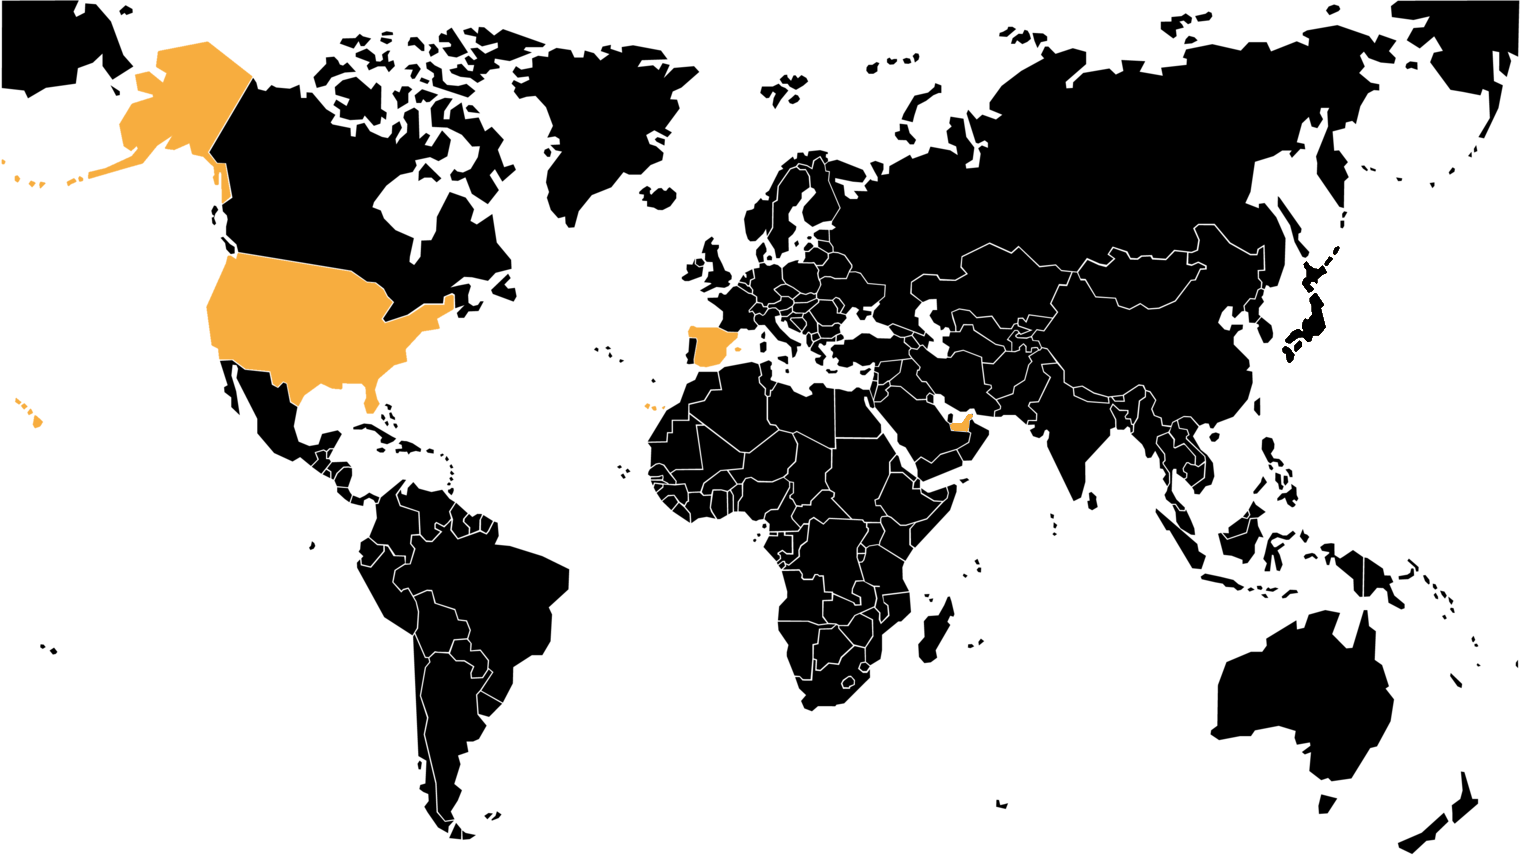
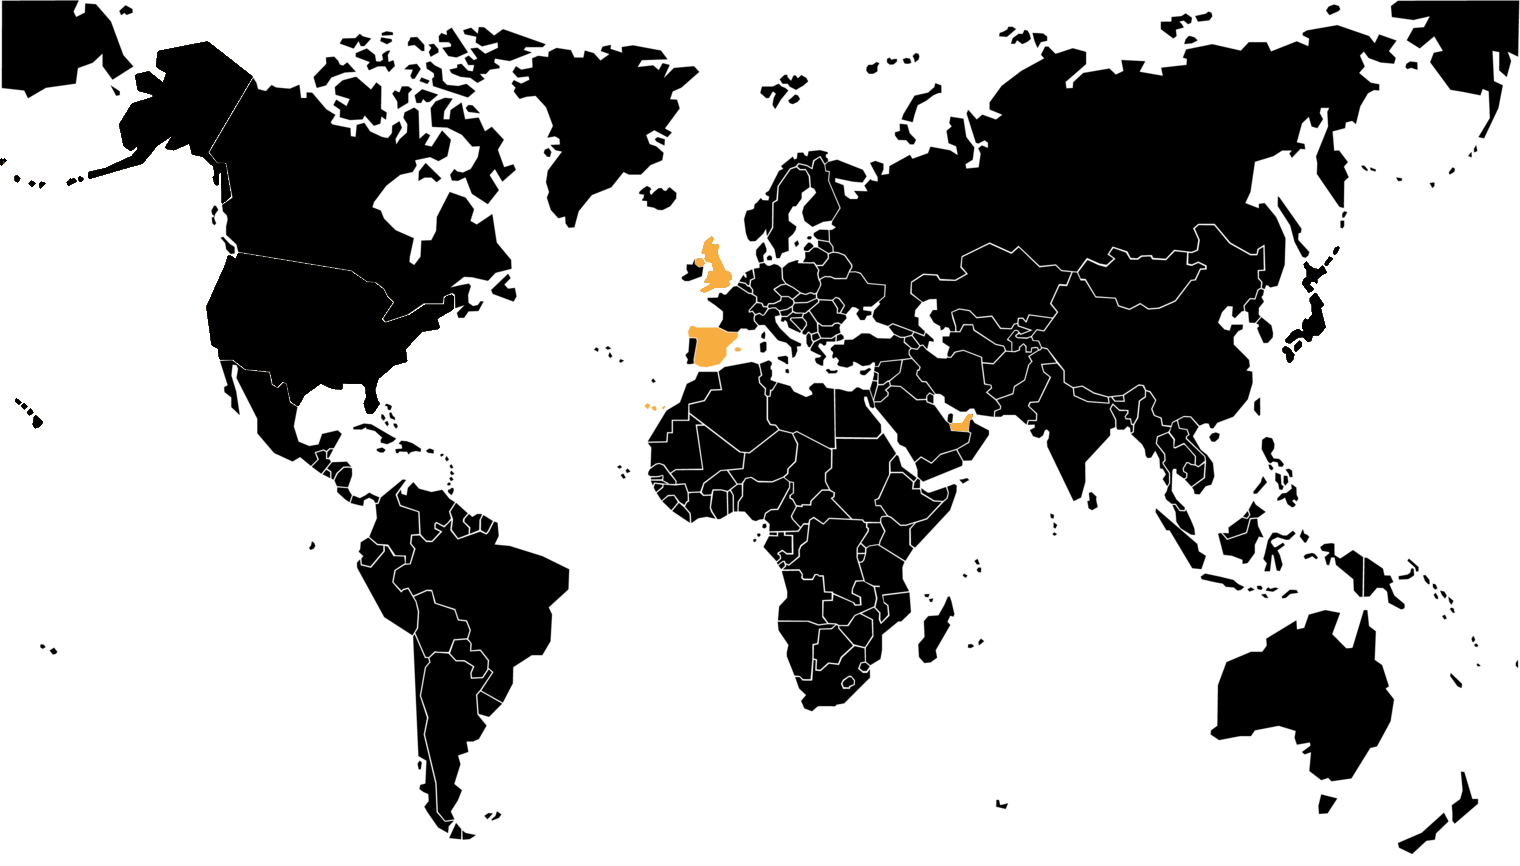
Finish principal page and start secondary

diff --git a/index.html b/index.html
@@ -27,18 +27,18 @@
     		<div id="experiences">
     			<button id="expbtn"><ion-icon name="caret-down-outline"></ion-icon>Experiences</button>
     			<div id="exp-content">
-      				<a href="">Experience 1</a>
-      				<a href="">Experience 2</a>
-      				<a href="">Experience 3</a>
+      				<a href="./Godai.html">Godai Menorca</a>
+      				<a href="">Nusr-et Dubai</a>
+      				<a href="">Burger & Beyond London</a>
     			</div>
   			</div>
   		</div>
 	</nav>
 
 	<div>
-    	<img id="map" src="./images/Map.png" usemap="#worldmap">
+    	<img class="header-images" src="./images/Map.png" usemap="#worldmap">
     	<map name="worldmap">
-  			<area shape="rect" coords="250,290,390,370" alt="USA" href="B&B.html">
+  			<area shape="rect" coords="706,255,730,290" alt="London" href="B&B.html">
   			<area shape="rect" coords="705,330,725,365" alt="Spain" href="Godai.html">
   			<area shape="rect" coords="955,420,975,430" alt="EAU" href="nusr-et.html">
 		</map>
@@ -61,25 +61,25 @@
   				<img class="image-container" src="./images/Godai.png">
   			</div>
   			<div class="justified-text">
-  				<p>Lorem ipsum dolor sit amet consectetur adipisicing elit. Maxime mollitia,
-				molestiae quas vel sint commodi repudiandae consequuntur voluptatum laborum
-				numquam blanditiis harum quisquam eius sed odit fugiat iusto fuga praesentium
-				optio, eaque rerum! Provident similique accusantium nemo autem.</p>
+  				<p>Godai is an exclusive japaneese restaurant located in the 5 stars hotel
+					Suites del Lago, Menorca. It offers the very personal cuisine of the chef
+					Julián Mármol, who owns a Michelín star. His vocation is to assemble the
+					Menorca products with the techniques and procedures of the japanese cuisine</p>
   			</div>
   		</div>
   		<div class="exp-container">
   			<div>
   				<h2>NUSR-ET</h2>
-			</div>
-			<div>
+				</div>
+				<div>
 			  	<img class="image-container" src="./images/nurs-et.jpg">
 		  	</div>
 		  	<div class="justified-text">
-  				<p>Lorem ipsum dolor sit amet consectetur adipisicing elit. Maxime mollitia,
-				molestiae quas vel sint commodi repudiandae consequuntur voluptatum laborum
-				numquam blanditiis harum quisquam eius sed odit fugiat iusto fuga praesentium
-				optio, eaque rerum! Provident similique accusantium nemo autem.</p>
-			</div>
+  				<p>Nusr-et restaurants are worldwide known for its spectacular meat preparation,
+					its golden steaks and hamburgers. It has become very popular since lots of well
+					known celebrities have visited them and due to their partcular way of spreading
+					the salt.</p>
+				</div>
   		</div>
   		<div class="exp-container">
   			<div>
@@ -89,10 +89,10 @@
   				<img class="image-container" src="./images/Diverxo.jpg">
 			</div>
   			<div class="justified-text">
-  				<p>Lorem ipsum dolor sit amet consectetur adipisicing elit. Maxime mollitia,
-				molestiae quas vel sint commodi repudiandae consequuntur voluptatum laborum
-				numquam blanditiis harum quisquam eius sed odit fugiat iusto fuga praesentium
-				optio, eaque rerum! Provident similique accusantium nemo autem.</p>
+  				<p>Located in the holtel NH Eurobulding, it is the only three Michelín stars
+					restaurant in Madrid. It offers an fanciful, overflowing and so funny cuisine
+					with evoluting dishes throughout the experience and whose invetion is due to
+					David Muñoz.</p>
 			</div>
   		</div>
   		<div class="exp-container">
@@ -103,10 +103,10 @@
   				<img class="image-container" src="./images/hostaria.jpg">
 			</div>
   			<div class="justified-text">
-  				<p>Lorem ipsum dolor sit amet consectetur adipisicing elit. Maxime mollitia,
-				molestiae quas vel sint commodi repudiandae consequuntur voluptatum laborum
-				numquam blanditiis harum quisquam eius sed odit fugiat iusto fuga praesentium
-				optio, eaque rerum! Provident similique accusantium nemo autem.</p>
+  				<p>Hostaria al Gladiatore is situated in the historic center, right in front of
+					the Coliseum, set in a marvellous location. It offers traditional Italian
+					food prepared conciously and with "love" as your grandma would do. It also
+					have a huge wine selection.</p>
 			</div>
   		</div>
   		<div class="exp-container">
@@ -117,10 +117,10 @@
   				<img class="image-container" src="./images/restaurant58.png">
 			</div>
 			<div class="justified-text">
-  				<p>Lorem ipsum dolor sit amet consectetur adipisicing elit. Maxime mollitia,
-				molestiae quas vel sint commodi repudiandae consequuntur voluptatum laborum
-				numquam blanditiis harum quisquam eius sed odit fugiat iusto fuga praesentium
-				optio, eaque rerum! Provident similique accusantium nemo autem.</p>
+  				<p>Located at the first floor of the Eiffel Tower the restaurant 58 offers an
+					elegant design devised by the designer Patrick Jouin. It is perfect either to make
+					a small stop during the visit or to complete your ascension to the top of the Tower.
+					This restaurant will allow you to enjoy the sights from the top.</p>
 			</div>
   		</div>
   		<div class="exp-container">

diff --git a/Godai.html b/Godai.html
@@ -1,0 +1,109 @@
+<!DOCTYPE html>
+<html>
+
+<head>
+	<link rel="stylesheet" href="./styles/styles.css">
+	<title>Food & Travel - Godai Menorca</title>
+</head>
+
+<body>
+	<header>
+		<div id="header-container">
+			<div id="logo-container">
+				<img id="logo" src="./images/Logo.png" alt="logo">
+			</div>
+			<div id="name-container">
+				<h1>FOOD & TRAVEL</h1>
+			</div>
+		</div>
+	</header>
+	<nav>
+		<div id="navbar">
+    		<a href="./index.html"><ion-icon class="icon" name="home-outline"></ion-icon>Home</a>
+    		<a href=""><ion-icon class="icon" name="information-outline"></ion-icon>About Us</a>
+    		<a href="#footer-container"><ion-icon class="icon" name="mail-outline"></ion-icon>Contact</a>
+    		<a class="float-right" href=""><ion-icon class="icon" name="person-circle-outline"></ion-icon>Log In</a>
+    		<a class="float-right"  href=""><ion-icon class="icon" name="log-in-outline"></ion-icon>Sign Up</a>
+    		<div id="experiences">
+    			<button id="expbtn-active"><ion-icon name="caret-down-outline"></ion-icon>Experiences</button>
+    			<div id="exp-content">
+      				<a href="">Godai Menorca</a>
+      				<a href="">Nusr-et Dubai</a>
+      				<a href="">Burger & Beyond London</a>
+    			</div>
+  			</div>
+  		</div>
+	</nav>
+
+	<div>
+    	<img class="header-images" src="./images/Godai.png">
+  </div>
+
+	<div class="description-container">
+		<h1 class="desc-title">GODAI MENORCA</h1>
+		<p class="desc-text">Lorem ipsum dolor sit amet consectetur adipisicing elit. Maxime mollitia,
+		molestiae quas vel sint commodi repudiandae consequuntur voluptatum laborum
+		numquam blanditiis harum quisquam eius sed odit fugiat iusto fuga praesentium
+		optio, eaque rerum! Provident similique accusantium nemo autem. Lorem ipsum
+		dolor sit amet consectetur adipisicing elit. Maxime mollitia,
+		molestiae quas vel sint commodi repudiandae consequuntur voluptatum laborum
+		numquam blanditiis harum quisquam eius sed odit fugiat iusto fuga praesentium
+		optio, eaque rerum! Provident similique accusantium nemo autem.</p>
+	</div>
+
+	<div class="row">
+		<div class="column">
+			<img src="./images/godai-1.png">
+			<iframe src="https://www.youtube.com/embed/puFJDjJfvTE" title="YouTube video player"
+			frameborder="0" allow="accelerometer; autoplay; clipboard-write; encrypted-media;
+			gyroscope; picture-in-picture" allowfullscreen></iframe>
+		</div>
+		<div class="column">
+			<img src="./images/godai-2.png">
+			<iframe src="https://www.youtube.com/embed/INGlyjVtPk8" title="YouTube video player"
+			frameborder="0" allow="accelerometer; autoplay; clipboard-write; encrypted-media;
+			gyroscope; picture-in-picture" allowfullscreen></iframe>
+		</div>
+		<div class="column">
+			<img src="./images/godai-3.png">
+			<iframe src="https://www.youtube.com/watch?v=dARgQh6IYls" title="YouTube video player"
+			frameborder="0" allow="accelerometer; autoplay; clipboard-write; encrypted-media;
+			gyroscope; picture-in-picture" allowfullscreen></iframe>
+		</div>
+		<div class="column">
+			<img src="./images/">
+		</div>
+		<div class="column">
+			<img src="./images/">
+		</div>
+	</div>
+
+  <footer>
+    <div id="footer-container">
+      <div id="flogo-container">
+      <img id="logo" src="./images/Logo.png" alt="logo">
+    </div>
+    <div id="cr-container">
+      FOOD & TRAVEL © 2021
+    </div>
+    <div id="social-container">
+      <div id="instagram">
+        <span><a href="url"><ion-icon name="logo-instagram"></ion-icon></a></span>
+      </div>
+        <div id="twitter">
+          <span><a href="url"><ion-icon name="logo-twitter"></ion-icon></a></span>
+        </div>
+        <div id="facebook">
+          <span><a href="url"><ion-icon name="logo-facebook"></ion-icon></a></span>
+        </div>
+        <div id="TandC"><a href="url">Terms & Conditions</a></div>
+        <div id="FAQ"><a href="url">FAQ</a></div>
+    </div>
+    </div>
+  </footer>
+
+<script type="module" src="https://unpkg.com/ionicons@5.5.2/dist/ionicons/ionicons.esm.js"></script>
+<script nomodule src="https://unpkg.com/ionicons@5.5.2/dist/ionicons/ionicons.js"></script>
+</body>
+
+</html>

diff --git a/styles/styles.css b/styles/styles.css
@@ -102,6 +102,15 @@ body {
   background-color: #F7AD3F;
 }
 
+#experiences #expbtn-active {
+  background-color: #000000;
+  color: #FFFFFF;
+  font-size: 20px;
+  border: none;
+  outline: none;
+  padding: 22px 15px 13px 15px;
+}
+
 #experiences:hover #expbtn {
   background-color: #D58B1D;
   color: #000000;
@@ -134,7 +143,7 @@ body {
 
 /*################### END NAVBAR ###################*/
 
-#map {
+.header-images {
   width:100%;
   height:auto;
 }
@@ -331,4 +340,49 @@ body {
   #cr-container {
     order: 3;
   }
+}
+
+
+.description-container {
+  width: 80%;
+  margin: auto;
+}
+
+.desc-title {
+  color: #000000;
+  margin: 10px;
+  padding: 5px;
+  text-align: center;
+  font-size: 40px;
+}
+
+.desc-text {
+  color: #959595;
+  margin: 10px;
+  padding: 5px;
+  text-align: justify;
+  font-size: 16px;
+}
+
+.row {
+  display: flex;
+  flex-wrap: wrap;
+  padding: 0 4px;
+}
+
+.column {
+  flex: 19%;
+  padding: 0 4px;
+}
+
+.column img {
+  margin-top: 8px;
+  width: 100%;
+  height: auto;
+}
+
+.column iframe {
+  margin-top: 8px;
+  width: 100%;
+  height: auto;
 }
